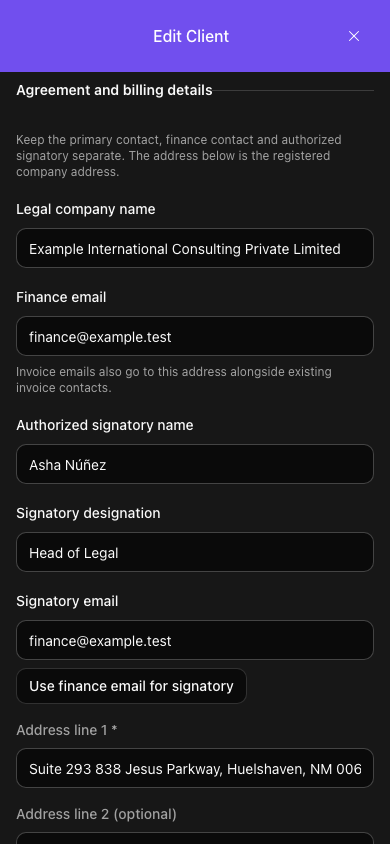
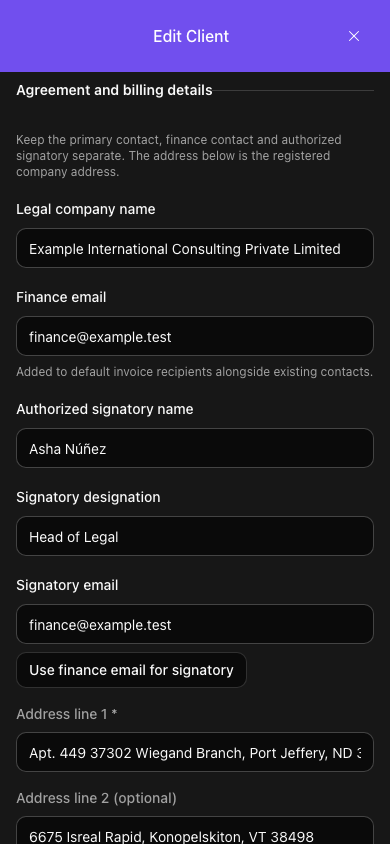
docs: refresh finance recipient field screenshots

diff --git a/docs/qa/client-agreements-2462/README.md b/docs/qa/client-agreements-2462/README.md
@@ -2,7 +2,7 @@
 
 Part of #2462: capture client legal company name, finance email, and authorized signatory name, designation and email. The existing address is the registered/billing address. Finance and signatory addresses remain independent after copying. Legal name is used in billed-to views and PDFs, falling back to the display name for existing clients.
 
-Runtime source: `ff0f4ce5aeb8abd3e91ddc339497da5e6676d626`. Every person, company, address, email and payment value shown is a synthetic local fixture. Images are copied unchanged from real Brave captures. No production HR data, live emails, signature requests or payments were used.
+Runtime source: `ff0f4ce5aeb8abd3e91ddc339497da5e6676d626`. The two editor captures were refreshed on `8f916e90b22088730b87e4230880ea5d51052065` after clarifying that finance is a default invoice recipient; desktop/mobile checks passed 2/0, required Vite command and focused lint passed. Every person, company, address, email and payment value shown is a synthetic local fixture. Images are copied unchanged from real Brave captures. No production HR data, live emails, signature requests or payments were used.
 
 | Flow | Desktop | Mobile |
 | --- | --- | --- |
